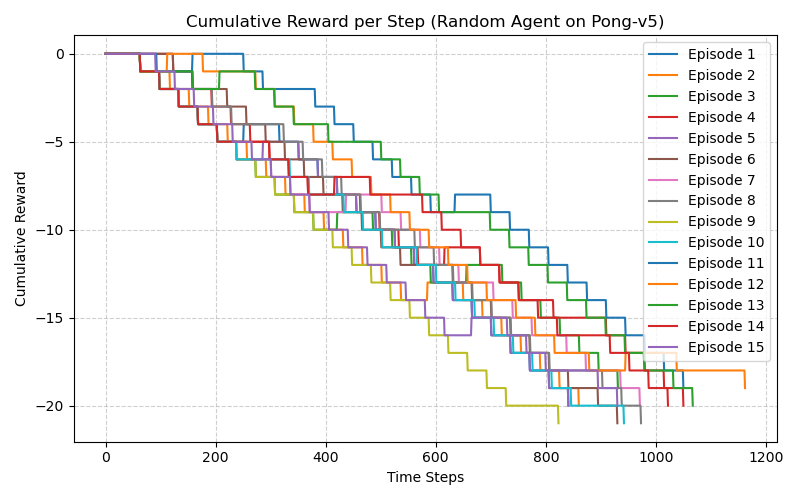
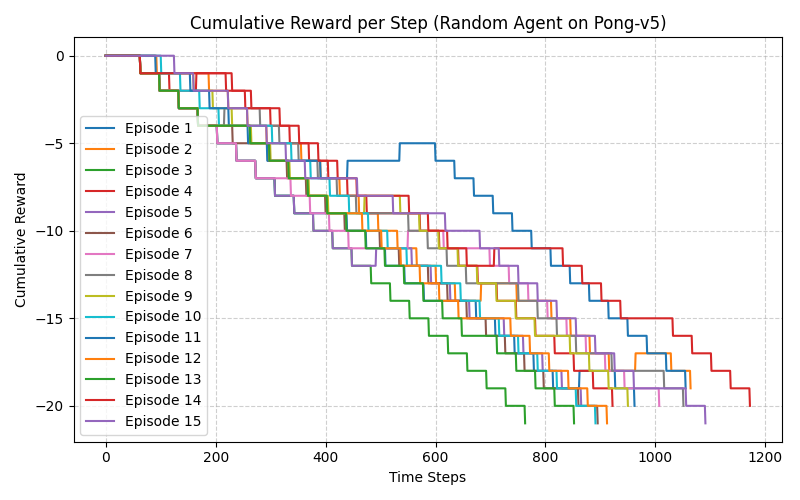
LunarLander

diff --git a/Pong/part(a)/Pong-DQN-a.py b/Pong/part(a)/Pong-DQN-a.py
@@ -9,7 +9,7 @@ print("Observation space:", env.observation_space)
 print("Action space:", env.action_space)
 print("Number of possible actions:", env.action_space.n)
 
-num_episodes = 5
+num_episodes = 15
 episode_rewards = []
 reward_trajectories = []  # store reward progression per episode
 
@@ -45,4 +45,4 @@ plt.legend()
 plt.grid(True, linestyle="--", alpha=0.6)
 plt.tight_layout()
 plt.savefig(f"pong_{num_episodes}_random_agent_rewards.png")
-plt.show()
+# plt.show()
